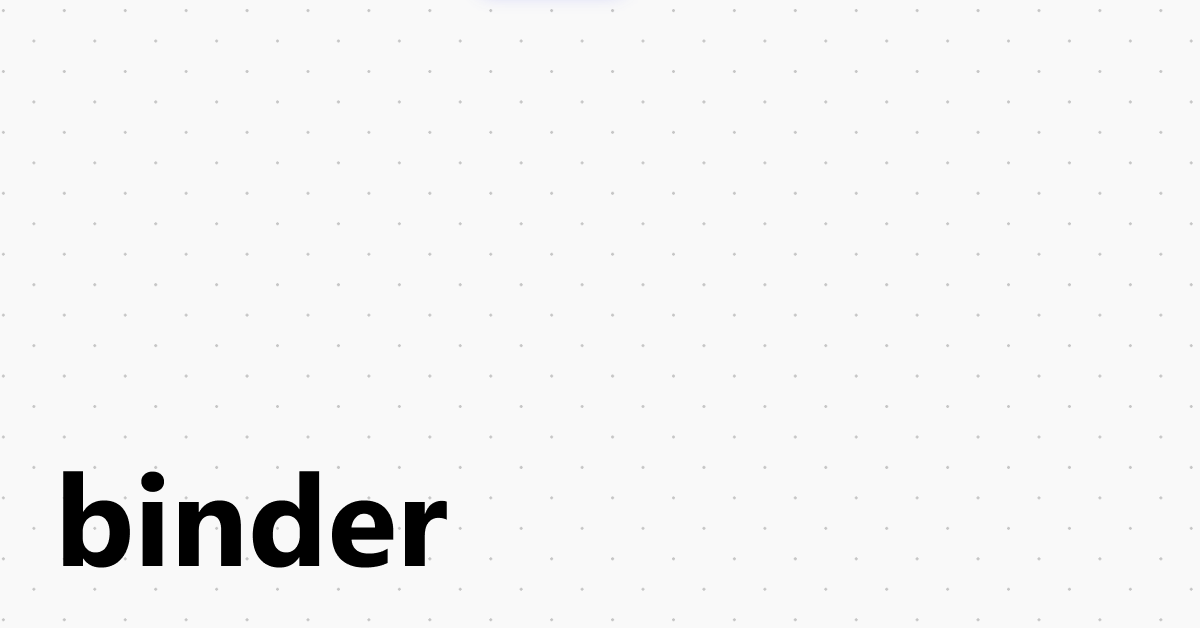
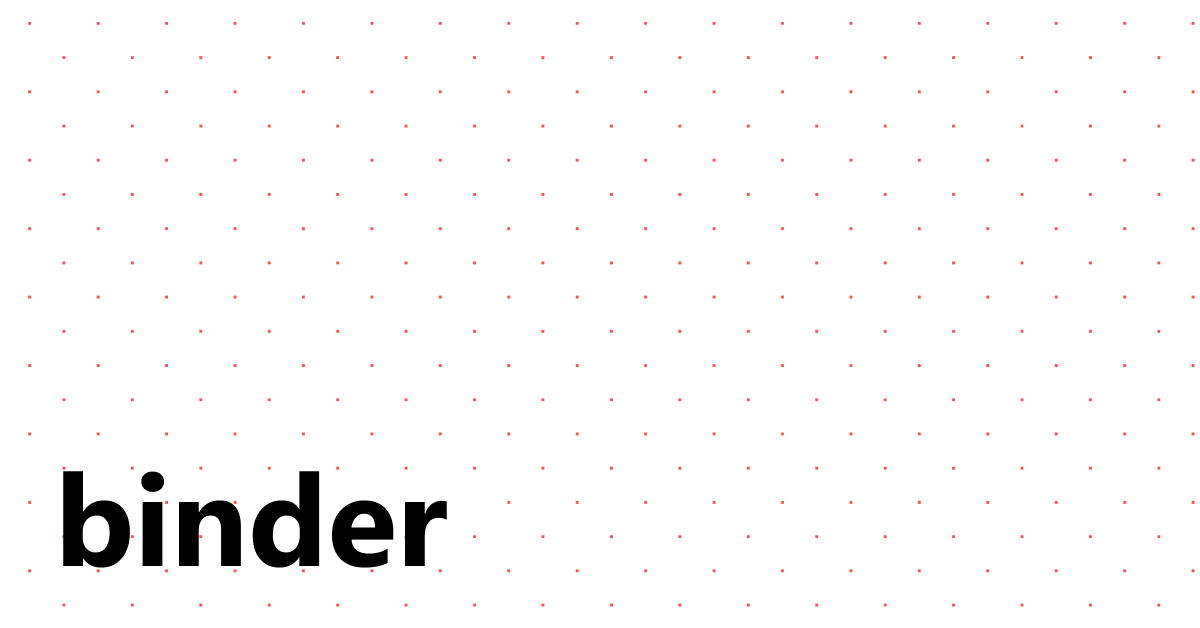
initial updates

diff --git a/pages/index.tsx b/pages/index.tsx
@@ -13,11 +13,14 @@ import {
   Box,
   Notification,
   ActionIcon,
+  Tooltip,
+  Loader,
 } from "@mantine/core";
 import { useMediaQuery, useLocalStorage, useHover } from "@mantine/hooks";
 import { useForm } from "@mantine/form";
-import { useState } from "react";
+import { Dispatch, SetStateAction, useState } from "react";
 import { IconWand, IconBookUpload, IconTrash } from "@tabler/icons";
+import { Explainer } from "../components/Explainer";
 
 export default function Home() {
   const [favBooks, setFavBooks] = useLocalStorage<string[]>({
@@ -31,24 +34,10 @@ export default function Home() {
 
   const isMobile = useMediaQuery("(max-width: 768px)");
 
-  const form = useForm({
-    initialValues: {
-      title: "",
-      author: "",
-    },
-    validate: {
-      title: (v: string) => (v.length === 0 ? "Title required" : null),
-      author: (v: string) => (v.length === 0 ? "Author required" : null),
-    },
-  });
-
   const add = ({ title, author }: { title: string; author: string }) => {
     const book = `${title} by ${author}`;
 
     if (favBooks.includes(book)) return; // show an error here
-
-    form.reset();
-    setOpened(false);
 
     setFavBooks((prev) => [...prev, book]);
   };
@@ -89,12 +78,12 @@ export default function Home() {
         pos="fixed"
         bottom={0}
         left={0}
-        p="xs"
+        py="xs"
         opacity={1}
         sx={{
           backdropFilter: "blur(2px)",
           backgroundColor: "rgba(0, 0, 0, 0)",
-          zIndex: 10,
+          zIndex: 101,
         }}
       >
         <Container size="xs" w="100%">
@@ -128,16 +117,16 @@ export default function Home() {
         style={{
           position: "fixed",
           zIndex: -1,
-          top: -20,
+          top: 0,
           bottom: 0,
-          left: -20,
+          left: 0,
           right: 0,
           backgroundColor: "#ffffff",
-          opacity: 0.15,
+          opacity: 0.7,
           backgroundImage:
-            "radial-gradient(#000000 2px, transparent 2px), radial-gradient(#000000 2px, #ffffff 2px)",
-          backgroundSize: "80px 80px",
-          backgroundPosition: "0 0, 40px 40px",
+            "radial-gradient(#fa5252 1.2px, transparent 1.2px), radial-gradient(#fa5252 1.2px, #ffffff 1.2px)",
+          backgroundSize: "48px 48px",
+          backgroundPosition: "0 0,24px 24px",
           backgroundAttachment: "fixed",
         }}
       />
@@ -154,6 +143,7 @@ export default function Home() {
         <Flex align="center" my="xl" direction="column">
           <Title size={64}>binder 📚</Title>
           <Text size="xl">find your next favorite book</Text>
+          <Explainer />
         </Flex>
 
         <Space h="xl" />
@@ -219,40 +209,7 @@ export default function Home() {
 
         <Space h="xl" my="xl" />
 
-        <Modal
-          opened={opened}
-          onClose={() => {
-            setOpened(false);
-            form.reset();
-          }}
-          title={
-            <>
-              <Text>Add a book that you love</Text>
-              <Text size="xs" c="dimmed">
-                Make sure the information provided is accurate, and properly
-                capitalized.
-              </Text>
-            </>
-          }
-          withCloseButton={false}
-          centered
-        >
-          <form onSubmit={form.onSubmit(add)}>
-            <TextInput label="Title" {...form.getInputProps("title")} />
-
-            <TextInput
-              mt="xs"
-              label="Author"
-              {...form.getInputProps("author")}
-            />
-
-            <Group position="right" my="md">
-              <Button type="submit" color="red" variant="light">
-                Add ❤
-              </Button>
-            </Group>
-          </form>
-        </Modal>
+        <AddBook opened={opened} setOpened={setOpened} add={add} />
       </Container>
     </>
   );
@@ -294,5 +251,109 @@ const Book = ({
         </ActionIcon>
       </Flex>
     </Paper>
+  );
+};
+
+const AddBook = ({
+  opened,
+  setOpened,
+  add,
+}: {
+  opened: boolean;
+  setOpened: Dispatch<SetStateAction<boolean>>;
+  add: ({ title, author }: { title: string; author: string }) => void;
+}) => {
+  const form = useForm({
+    initialValues: {
+      title: "",
+      author: "",
+    },
+    validate: {
+      title: (v: string) => (v.length === 0 ? "Title required" : null),
+      author: (v: string) => (v.length === 0 ? "Author required" : null),
+    },
+  });
+
+  const onSubmit = ({ title, author }: { title: string; author: string }) => {
+    add({ title, author });
+    form.reset();
+    setOpened(false);
+  };
+
+  const [isLoading, setIsLoading] = useState(false);
+
+  const getAuthor = async () => {
+    setIsLoading(true);
+
+    const response = await fetch("/api/author", {
+      method: "POST",
+      headers: {
+        "Content-Type": "application/json",
+      },
+      body: JSON.stringify({ title: form.values.title }),
+    });
+
+    const data = await response.json();
+    const { author } = data;
+
+    form.setFieldValue("author", author);
+    setIsLoading(false);
+  };
+
+  return (
+    <Modal
+      size="lg"
+      opened={opened}
+      onClose={() => {
+        setOpened(false);
+        form.reset();
+      }}
+      title={
+        <>
+          <Text size="lg">Add a book that you love</Text>
+          <Text size="sm" c="dimmed">
+            Ensure the information provided is accurate, and properly
+            capitalized.
+          </Text>
+        </>
+      }
+      withCloseButton={false}
+      centered
+    >
+      <form onSubmit={form.onSubmit(onSubmit)}>
+        <TextInput
+          size="lg"
+          label="Full title"
+          {...form.getInputProps("title")}
+        />
+
+        <TextInput
+          size="lg"
+          mt="xs"
+          label="Author"
+          rightSection={
+            isLoading ? (
+              <Loader size="sm" mr="md" />
+            ) : (
+              form.values.author.trim().length === 0 &&
+              form.values.title.length > 0 && (
+                <Tooltip label="Auto-complete">
+                  <ActionIcon onClick={getAuthor} mr="md">
+                    <IconWand size={18} />
+                  </ActionIcon>
+                </Tooltip>
+              )
+            )
+          }
+          {...form.getInputProps("author")}
+        />
+
+        <Group position="right" my="md">
+          <Button size="lg" type="submit" color="red" variant="light">
+            Add ❤
+          </Button>
+        </Group>
+      </form>
+    </Modal>
   );
 };

diff --git a/components/Explainer.tsx b/components/Explainer.tsx
@@ -1,0 +1,49 @@
+import { Text, Modal, Group, Button, Anchor } from "@mantine/core";
+import { useState } from "react";
+
+export const Explainer = () => {
+  const [opened, setOpened] = useState(false);
+
+  return (
+    <>
+      <Anchor c="dimmed" mt="xs" onClick={() => setOpened(true)}>
+        what is this?
+      </Anchor>
+
+      <Modal
+        size="lg"
+        opened={opened}
+        onClose={() => setOpened(false)}
+        title="Welcome to binder!"
+        centered
+        withCloseButton={false}
+      >
+        <Group dir="vertical">
+          <Text>
+            Binder is a web app that uses GTP-3 to recommend books you will
+            love. All you have to do is provide a list of your favorite books,
+            and binder will scour the internet and provide you with personalized
+            book recommendations tailored to your tastes.
+          </Text>
+          <Text>
+            Binder's recommendations are based on an in-depth analysis of your
+            favorite book titles, taking into account genre, author, subject
+            matter, and other factors. You can add books to your list with ease
+            – binder's autocomplete feature automatically searches for books as
+            you type, making the process quick and hassle-free. All of your
+            added books are saved locally, so you can access them whenever you
+            need them.
+          </Text>
+          <Button
+            mx="auto"
+            color="red"
+            onClick={() => setOpened(false)}
+            variant="light"
+          >
+            wow, let me start 👉👈
+          </Button>
+        </Group>
+      </Modal>
+    </>
+  );
+};

diff --git a/pages/api/author.ts b/pages/api/author.ts
@@ -1,0 +1,37 @@
+import type { NextApiRequest, NextApiResponse } from "next";
+import { openai } from "../../adapters/openai";
+
+const mixBasePrompt = (title: string) => `
+Who is the author to the book "${title}". Print only the authors name and nothing else. Make sure it is not a complete sentence.
+
+Author:
+
+`; // last line break is important
+
+type Data = {
+  author?: string;
+};
+
+const authorAction = async (
+  req: NextApiRequest,
+  res: NextApiResponse<Data>
+) => {
+  const { title } = req.body;
+
+  console.log(mixBasePrompt(title));
+
+  const baseCompletion = await openai.createCompletion({
+    model: "text-davinci-003",
+    prompt: mixBasePrompt(title),
+    temperature: 0.7,
+    max_tokens: 100,
+  });
+
+  const [output] = baseCompletion.data.choices;
+
+  const author = output.text?.trim();
+
+  res.status(200).json({ author });
+};
+
+export default authorAction;

diff --git a/pages/api/recommend.ts b/pages/api/recommend.ts
@@ -30,7 +30,7 @@ const generateAction = async (
   console.log(mixBasePrompt(favoriteBooks));
 
   const baseCompletion = await openai.createCompletion({
-    model: "text-davinci-002",
+    model: "text-davinci-003",
     prompt: mixBasePrompt(favoriteBooks),
     temperature: 0.8,
     max_tokens: 300,
